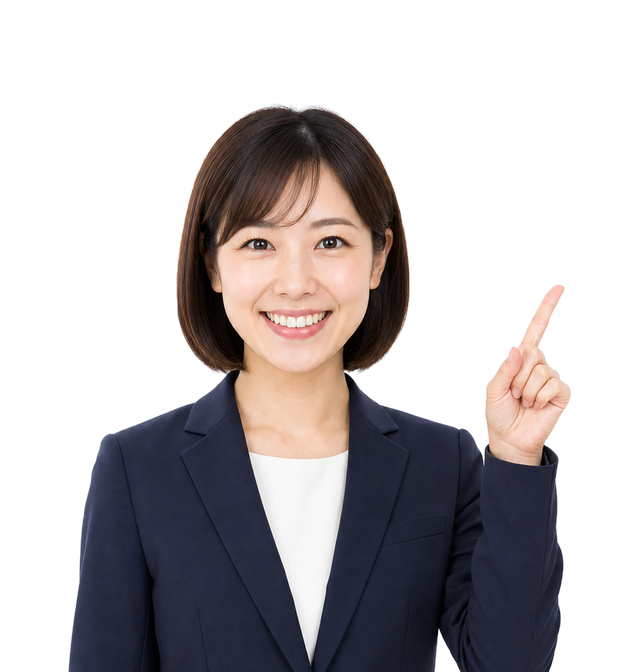
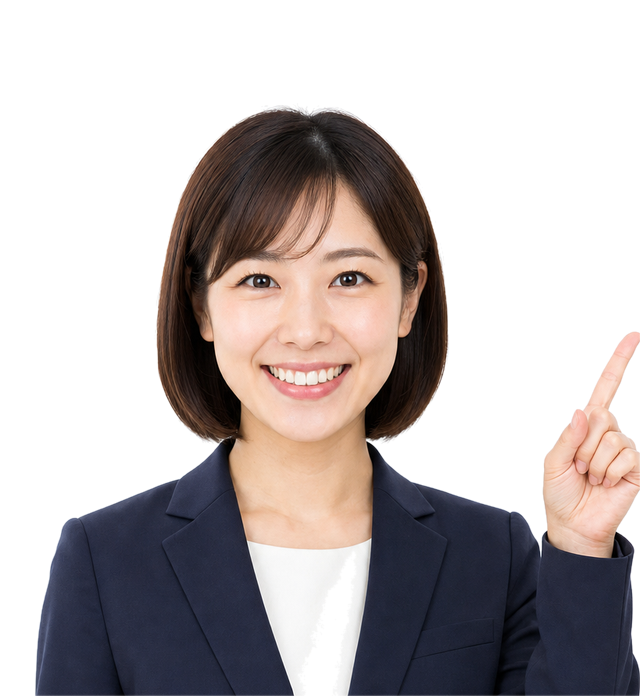
CTA woman: 3x presence via bust-up crop with fixed height
- Re-derive cutout from master as tight bust shot (face + pointing hand)
- Fixed vertical size (height 19.5rem PC / 96px mobile), width follows
  aspect, bottom still glued to the orange button top
- Mobile size tuned so her hair clears the strike-price row

diff --git a/styles.css b/styles.css
@@ -515,9 +515,10 @@ a { color: inherit; text-decoration: none; }
 /* 生成画像スロット：assets/gen/cta-woman.png を置くと表示される */
 .cta__woman {
   position: absolute;
-  left: -.4rem;
-  bottom: 13.8rem; /* オレンジボタン上辺に下辺を接着 */
-  width: 15.5rem;
+  left: .4rem;
+  bottom: 13.8rem; /* オレンジボタン上辺に下辺を接着・高さ固定でバストアップ */
+  height: 19.5rem;
+  width: auto;
   pointer-events: none;
   z-index: 0;
   filter: drop-shadow(.3rem .5rem .8rem rgba(120, 90, 0, .28));
@@ -525,7 +526,7 @@ a { color: inherit; text-decoration: none; }
 .cta__offer {
   position: relative;
   z-index: 2;
-  margin-left: 15.5rem; /* 人物カラムを避けて右カラムでセンタリング */
+  margin-left: 18.5rem; /* 人物カラムを避けて右カラムでセンタリング */
 }
 .cta .btn-cta, .cta__note {
   position: relative;
@@ -567,7 +568,7 @@ a { color: inherit; text-decoration: none; }
 }
 .cta__price s {
   color: #55606e;
-  font-size: 2.9rem;
+  font-size: 2.7rem;
   font-weight: 900;
   text-decoration-thickness: .35rem;
   text-decoration-color: var(--red);
@@ -2112,7 +2113,7 @@ a { color: inherit; text-decoration: none; }
   .cta__badge span { font-size: 12px; }
   .cta__badge b { font-size: 28px; -webkit-text-stroke-width: 3px; }
   /* スマホは全幅センター。人物は価格行に届かない高さまで縮小 */
-  .cta__woman { width: 96px; left: -4px; bottom: 101px; top: auto; }
+  .cta__woman { height: 96px; width: auto; left: -6px; bottom: 101px; top: auto; }
   .cta__offer { margin-left: 0; }
   .cta__price { white-space: nowrap; }
   .cta__pill { font-size: 15px; padding: 6px 18px; border-width: 2px; }
